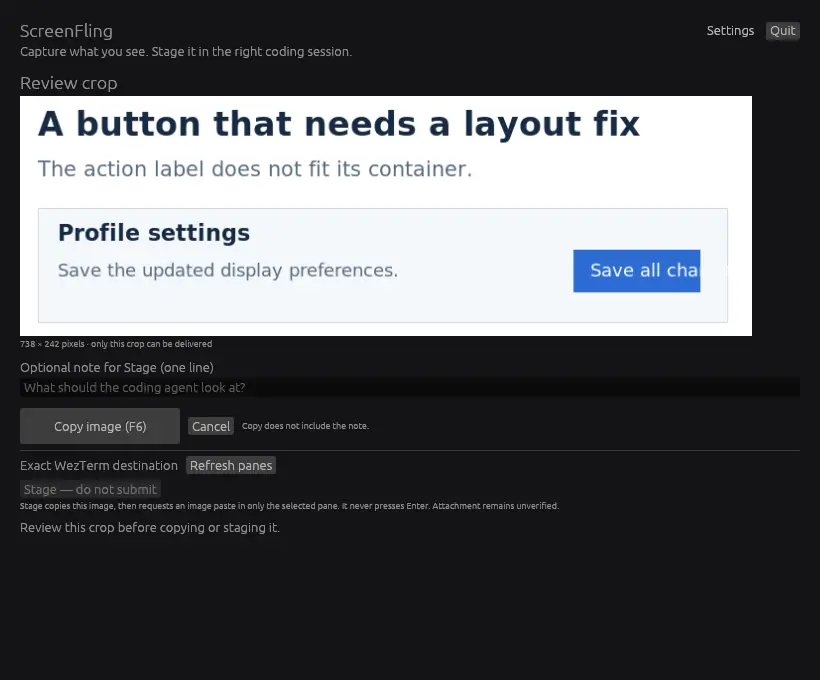
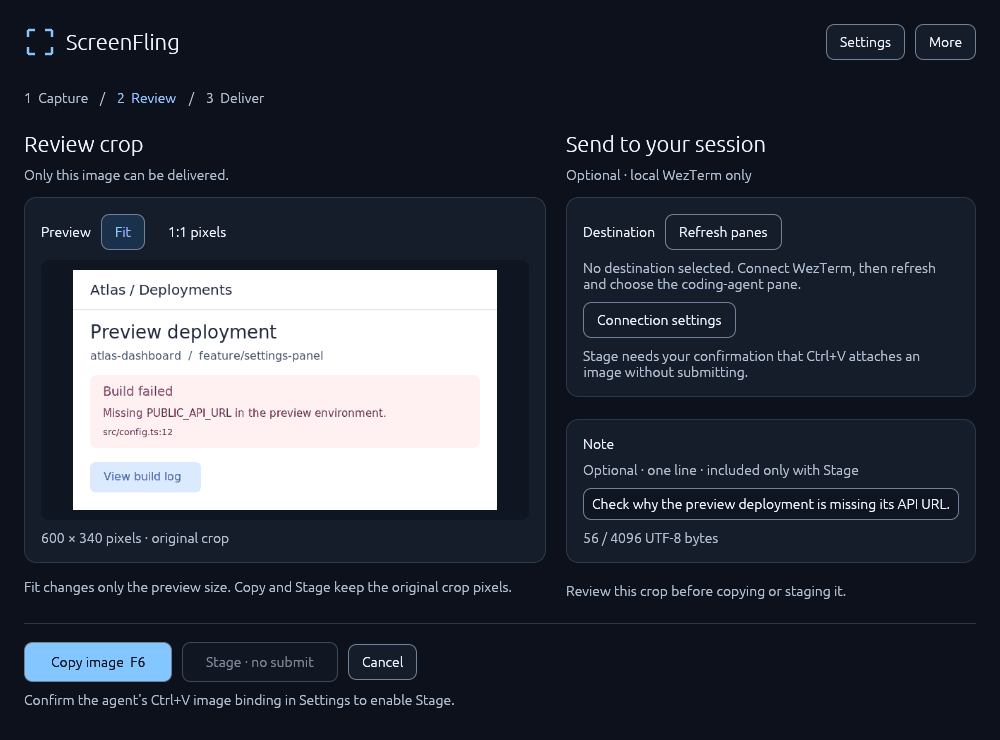
Show the verified native review screenshot and document visual design research

diff --git a/docs/VISUALS.md b/docs/VISUALS.md
@@ -6,15 +6,15 @@ ScreenFling is a desktop handoff utility. The interface should make three things
 
 **One visual system.** `src/app_view.rs` owns the palette, typography, spacing, cards and screen layouts. It does not capture, write a clipboard or dispatch terminal input. The existing action layer retains those responsibilities. The same capture-corner mark appears in the application and repository identity; no icon font, web runtime or new application dependency is needed.
 
-**Readable hierarchy.** Body text is 14 logical pixels, supporting text 12 or 14, section headings 22, and the idle introduction 32. Text is left-aligned and wraps within its region. Pane labels include separate identity metadata and an explicit Selected label; a blue fill alone is not the selection indicator. Path inputs scroll within their field instead of widening the application.
+**Readable hierarchy.** Body text is 14 logical pixels, supporting text 12 or 14, section headings 22, and the idle introduction 32. Text is left-aligned and wraps within its region. Pane labels include separate identity metadata and an explicit Selected label; a blue fill alone is not the selection indicator. Path inputs scroll within padded fields instead of widening the application. Cards align to their column edges. Scrollbars reserve visible space instead of floating over content.
 
-**The image has priority.** The normal 1000 × 740 window places the preview beside destination/note controls. Below a 720-point content width, review stacks into one scrollable column. The footer does not scroll, so Copy, Stage and Cancel stay reachable. The 640 × 480 minimum is exercised separately.
+**The image has priority.** The normal 1000 × 740 window places the preview beside destination/note controls. Below a 720-point content width, review stacks into one scrollable column. The footer does not scroll, so Copy, Stage and Cancel stay reachable. The 640 × 480 minimum is exercised separately. The default preview budget leaves the crop dimensions visible above the action area; this was corrected after inspecting the first rendered screenshots.
 
 **Preview is not delivery.** Fit preserves aspect ratio and affects only display. 1:1 pixels accounts for egui's pixels-per-point and provides scrollbars for larger images. Neither setting resamples the stored crop. The frozen-selection overlay has a crosshair, a light/dark outline, actual crop dimensions and a width-aware instruction panel.
 
-**States explain themselves.** Empty destination lists offer connection setup. Disabled Stage has both visible guidance and a tooltip. Copy remains usable without a connection. Pending delivery disables navigation that could obscure the result. A generic Operation result heading does not imply success when a transport result is uncertain or unsuccessful.
+**States explain themselves.** Empty destination lists offer connection setup. Disabled Stage has visible guidance and a tooltip. Copy remains usable without a connection. Pending delivery disables navigation that could obscure the result. A generic Operation result heading does not imply success when a transport result is uncertain or unsuccessful.
 
-**Settings are a separate page.** F10 opens settings; Escape or Back returns to the current capture without cancelling it. Each section still saves explicitly. Local F6/F8 shortcuts do not silently act while the settings page is open. A new global capture returns to the capture workflow.
+**Navigation and typing must actually work.** F10 opens settings; Escape or Back returns to the current capture without cancelling it. Each section saves explicitly. Local F6/F8 shortcuts do not act while Settings is open. The More menu consumes Escape before the underlying page can hide or cancel. SDL3 native text input is enabled only while egui reports a focused text editor, and stopped when editing ends. The real-window fixture types a path, saves it and checks the exact persisted value; focus styling alone is not proof of working text entry.
 
 ## Research behind the changes
 
@@ -22,14 +22,15 @@ References reviewed September 22, 2026:
 
 - [Microsoft: Typography in Windows](https://learn.microsoft.com/en-us/windows/apps/design/signature-experiences/typography) — clear type hierarchy, sentence case, readable sizes and left alignment.
 - [Fluent 2: Buttons](https://fluent2.microsoft.design/components/web/react/core/button/usage) — one visually dominant action, quieter secondary actions, useful disabled-state explanations and explicit save feedback.
-- [W3C: Contrast (Minimum)](https://www.w3.org/WAI/WCAG22/Understanding/contrast-minimum.html) and [Non-text Contrast](https://www.w3.org/WAI/WCAG22/Understanding/non-text-contrast.html) — text and meaningful control boundaries are measured, not judged by appearance alone.
+- [W3C: Contrast (Minimum)](https://www.w3.org/WAI/WCAG22/Understanding/contrast-minimum.html) and [Non-text Contrast](https://www.w3.org/WAI/WCAG22/Understanding/non-text-contrast.html) — measure text and meaningful control boundaries rather than judging by appearance alone.
 - [GitHub: About READMEs](https://docs.github.com/en/repositories/managing-your-repositorys-settings-and-features/customizing-your-repository/about-readmes) — explain the project, why it matters, how to start and where to find help; keep detailed material in linked documentation.
+- [SDL3: SDL_StartTextInput](https://wiki.libsdl.org/SDL3/SDL_StartTextInput) — text-input events are not enabled by default; start/stop native text entry when an editable field gains/loses focus.
 
-The contrast ratios are useful design benchmarks for this native UI, not a claim of complete WCAG or assistive-technology conformance. Keyboard focus, screen-reader integration, platform scaling and real desktop behavior require their own acceptance testing.
+The contrast ratios are design benchmarks for this native UI, not a claim of complete WCAG or assistive-technology conformance. Screen-reader integration, input-method composition, platform scaling and real desktop behavior require their own acceptance testing.
 
 ## Reproduce the visual evidence
 
-Ordinary Rust tests have no desktop/clipboard side effects. They check palette contrast, reserved action geometry and settings/Escape behavior in an in-memory egui context.
+Ordinary Rust tests have no desktop/clipboard side effects. They check palette contrast, reserved action geometry, settings/Escape behavior and menu dismissal in an in-memory egui context.
 
 For actual rendered screens, build the release application, then run on Linux:
 
@@ -40,12 +41,14 @@ xvfb-run -a -s '-screen 0 1280x800x24 -noreset' \
   python3 scripts/check-visuals.py --isolated-xvfb
 ```
 
-The script refuses a non-Xvfb display. It uses temporary preferences and a synthetic deployment-error image, takes screenshots of the actual executable, and checks that settings navigation, selection, review and resizing leave a sentinel clipboard unchanged. Only explicit Copy writes an image. It records normal/compact screens, dimensions, nonblank-frame checks and source identity under `dist/visuals/`.
+The script refuses a non-Xvfb display. It uses temporary preferences and a synthetic deployment-error image and captures the actual executable. Menu dismissal, settings entry/navigation, selection, review, preview modes, note editing and resizing must preserve a sentinel clipboard. Only explicit Copy writes an image. Every decoded clipboard pixel must equal an independently read crop of the rendered synthetic desktop. This reference is captured before launching the application, rather than assuming the wallpaper file survives display conversion unchanged.
 
-Inspect the screenshots as well as the report: a nonblank image is not proof that all text fits or that every state looks correct. Review idle, selection, crop review, settings, the scrolled compact layout and result. Inspect long labels, note validation, disabled actions, keyboard focus and 1:1 scrolling when changing the layout. Do not replace screenshots with a separately implemented mock interface.
+Screens, source identity, dimensions, nonblank-frame checks and the comparison result are recorded under `dist/visuals/`. Synthetic reference/copied PNGs remain available to diagnose a mismatch. Existing asymmetric every-pixel X11 and Wayland capture tests are separate and unchanged.
 
-The README preview is produced from the actual review screenshot. It contains a synthetic deployment error, not private screen content or a claimed agent attachment. Only development evidence is written to `dist`; production captures are not saved by this script or by the application without an explicit developer fixture run.
+Inspect the screenshots as well as the report: a nonblank image is not proof that all text fits or that every state looks correct. Review idle, menu, selection, crop review, 1:1 scrolling, note entry, connection errors, settings, the scrolled compact layout and result. Inspect long pane labels, note validation, disabled actions and keyboard focus when changing the layout. Do not substitute a separately implemented mock interface.
+
+The README preview comes from the real review screenshot. It contains a synthetic deployment error, not private screen content or a claimed agent attachment. Only the opt-in developer fixture writes these synthetic screenshots; the production application does not save captures.
 
 ## Remaining physical acceptance
 
-Inspect Windows and macOS rendering, native DPI/Retina changes, different Linux compositors, multiple displays, keyboard focus and OS theme/accessibility preferences on real desktops. Synthetic Xvfb evidence cannot establish those results. Existing capture, clipboard, WezTerm and packaging checks remain in the same three-job workflow.
+Inspect Windows and macOS rendering, native DPI/Retina changes, different Linux compositors, multiple displays, keyboard focus, input methods and OS theme/accessibility preferences on real desktops. Synthetic Xvfb evidence cannot establish those results. Existing capture, clipboard, WezTerm and packaging checks remain in the same three-job workflow.
